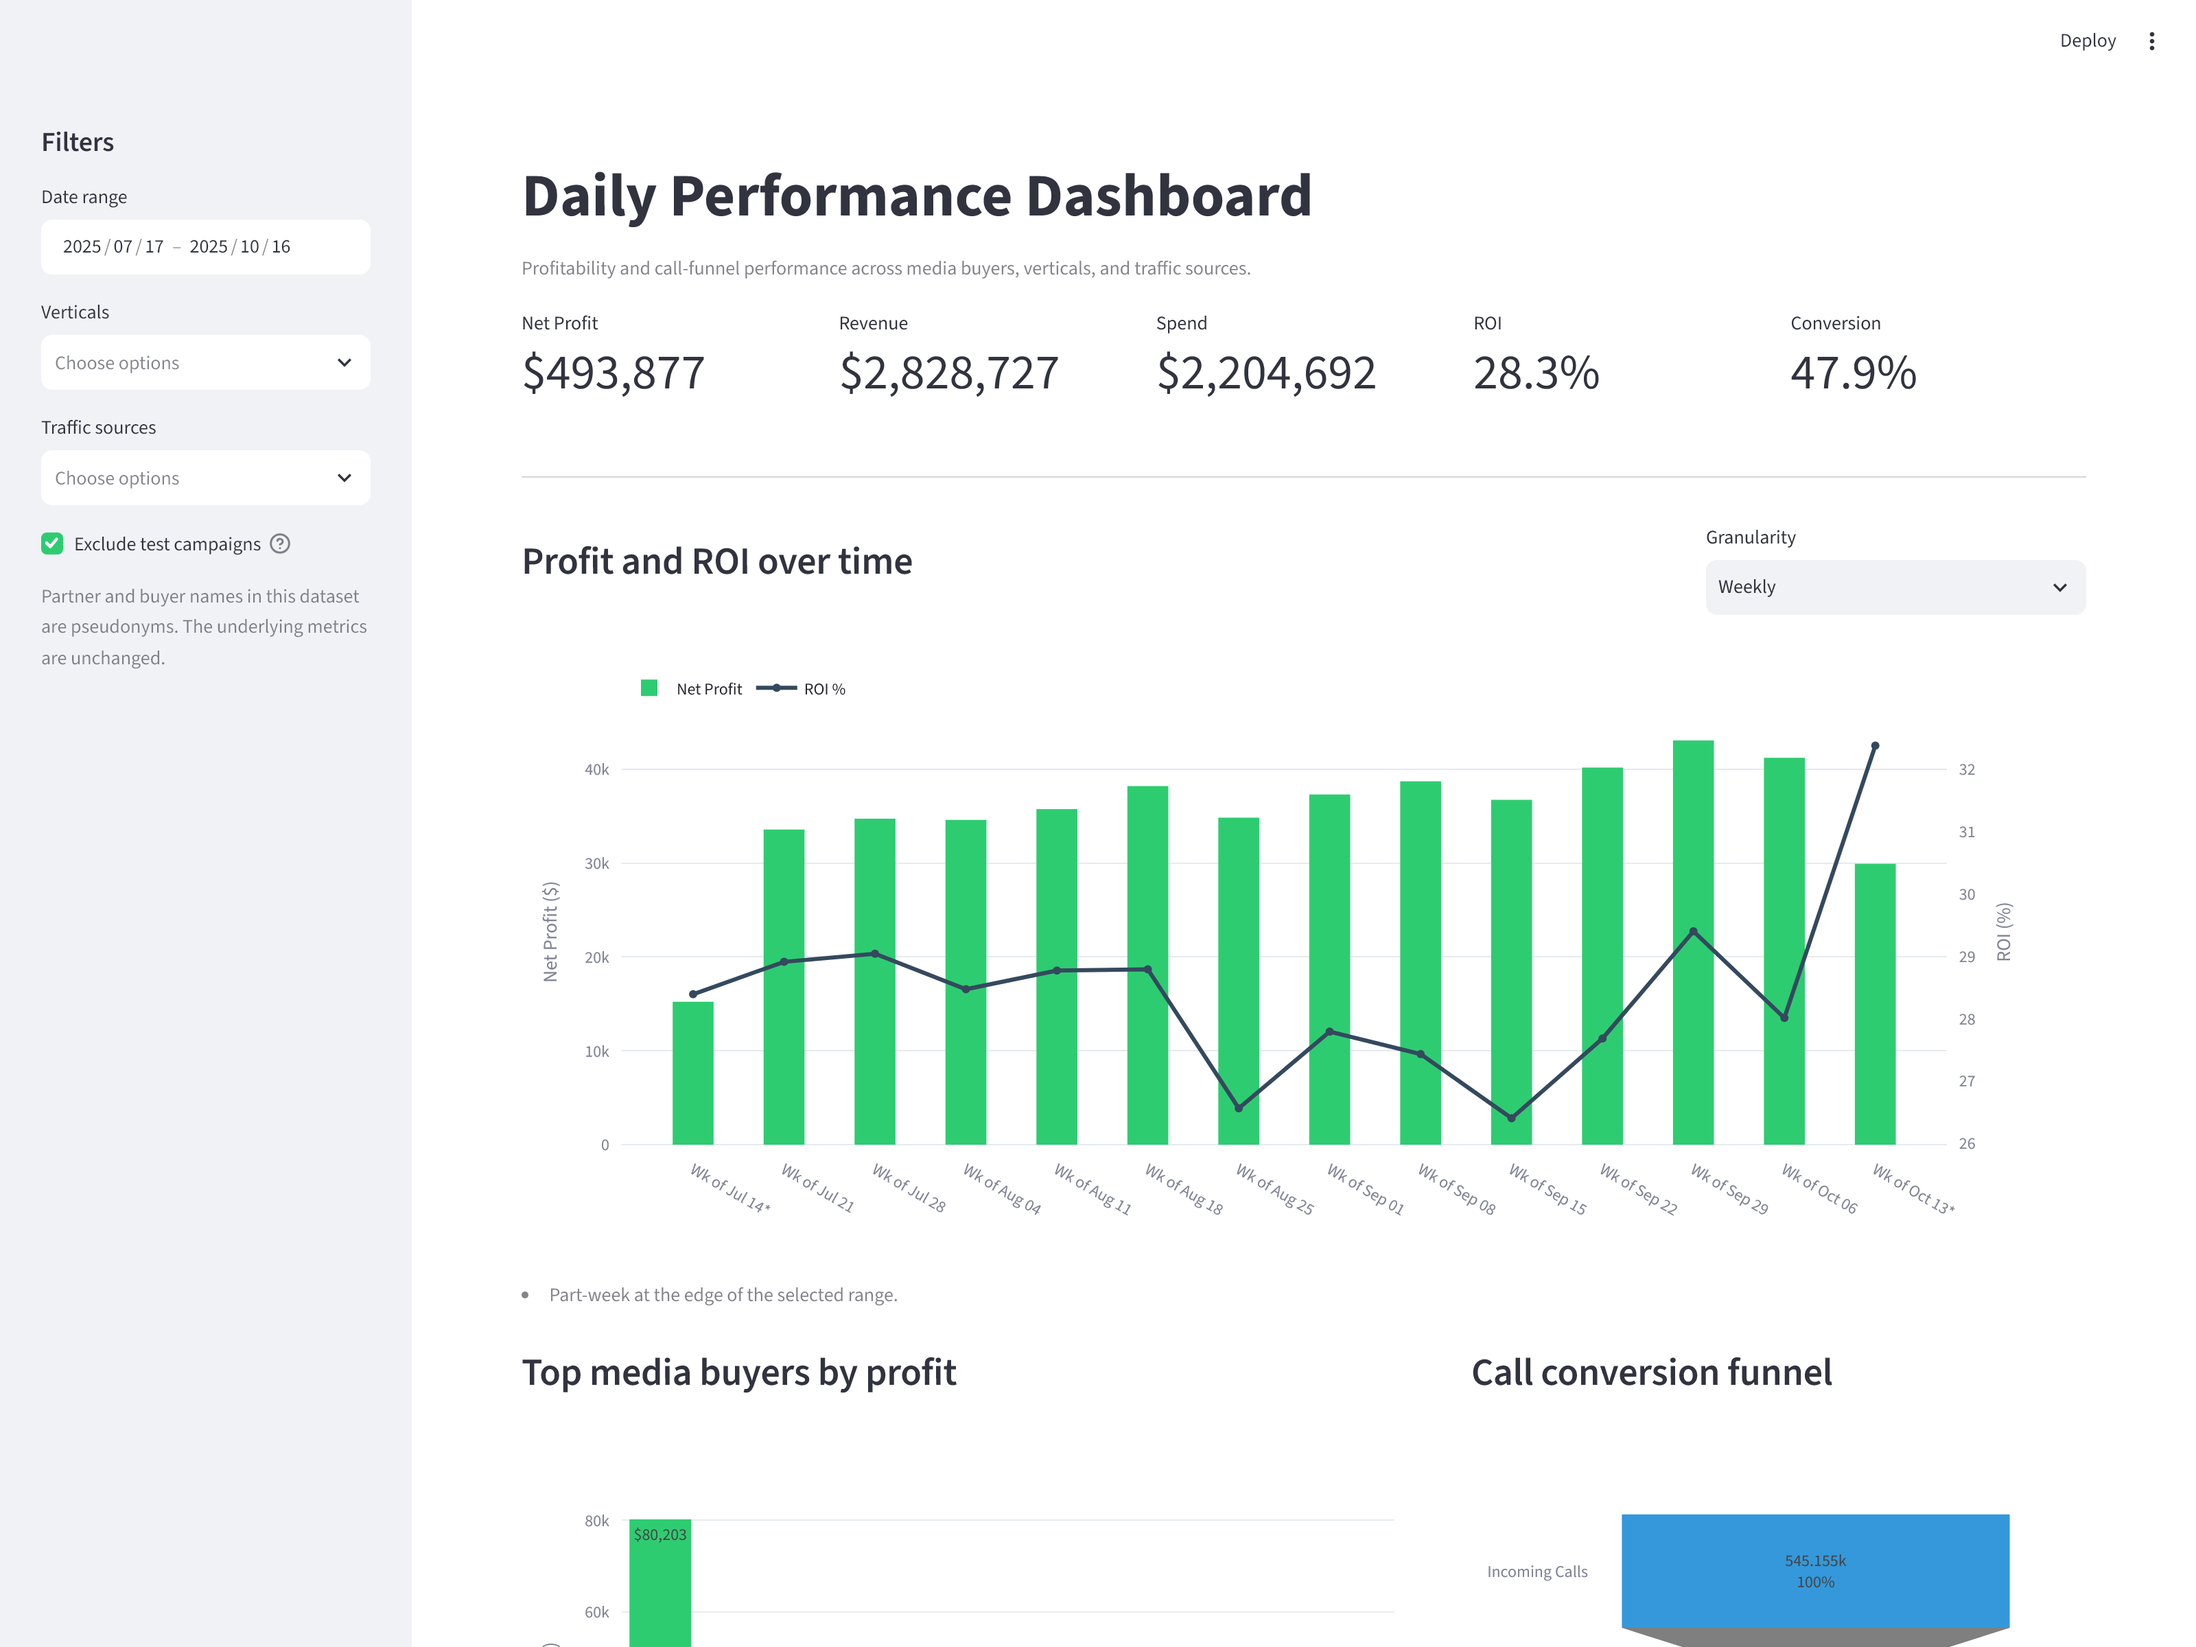
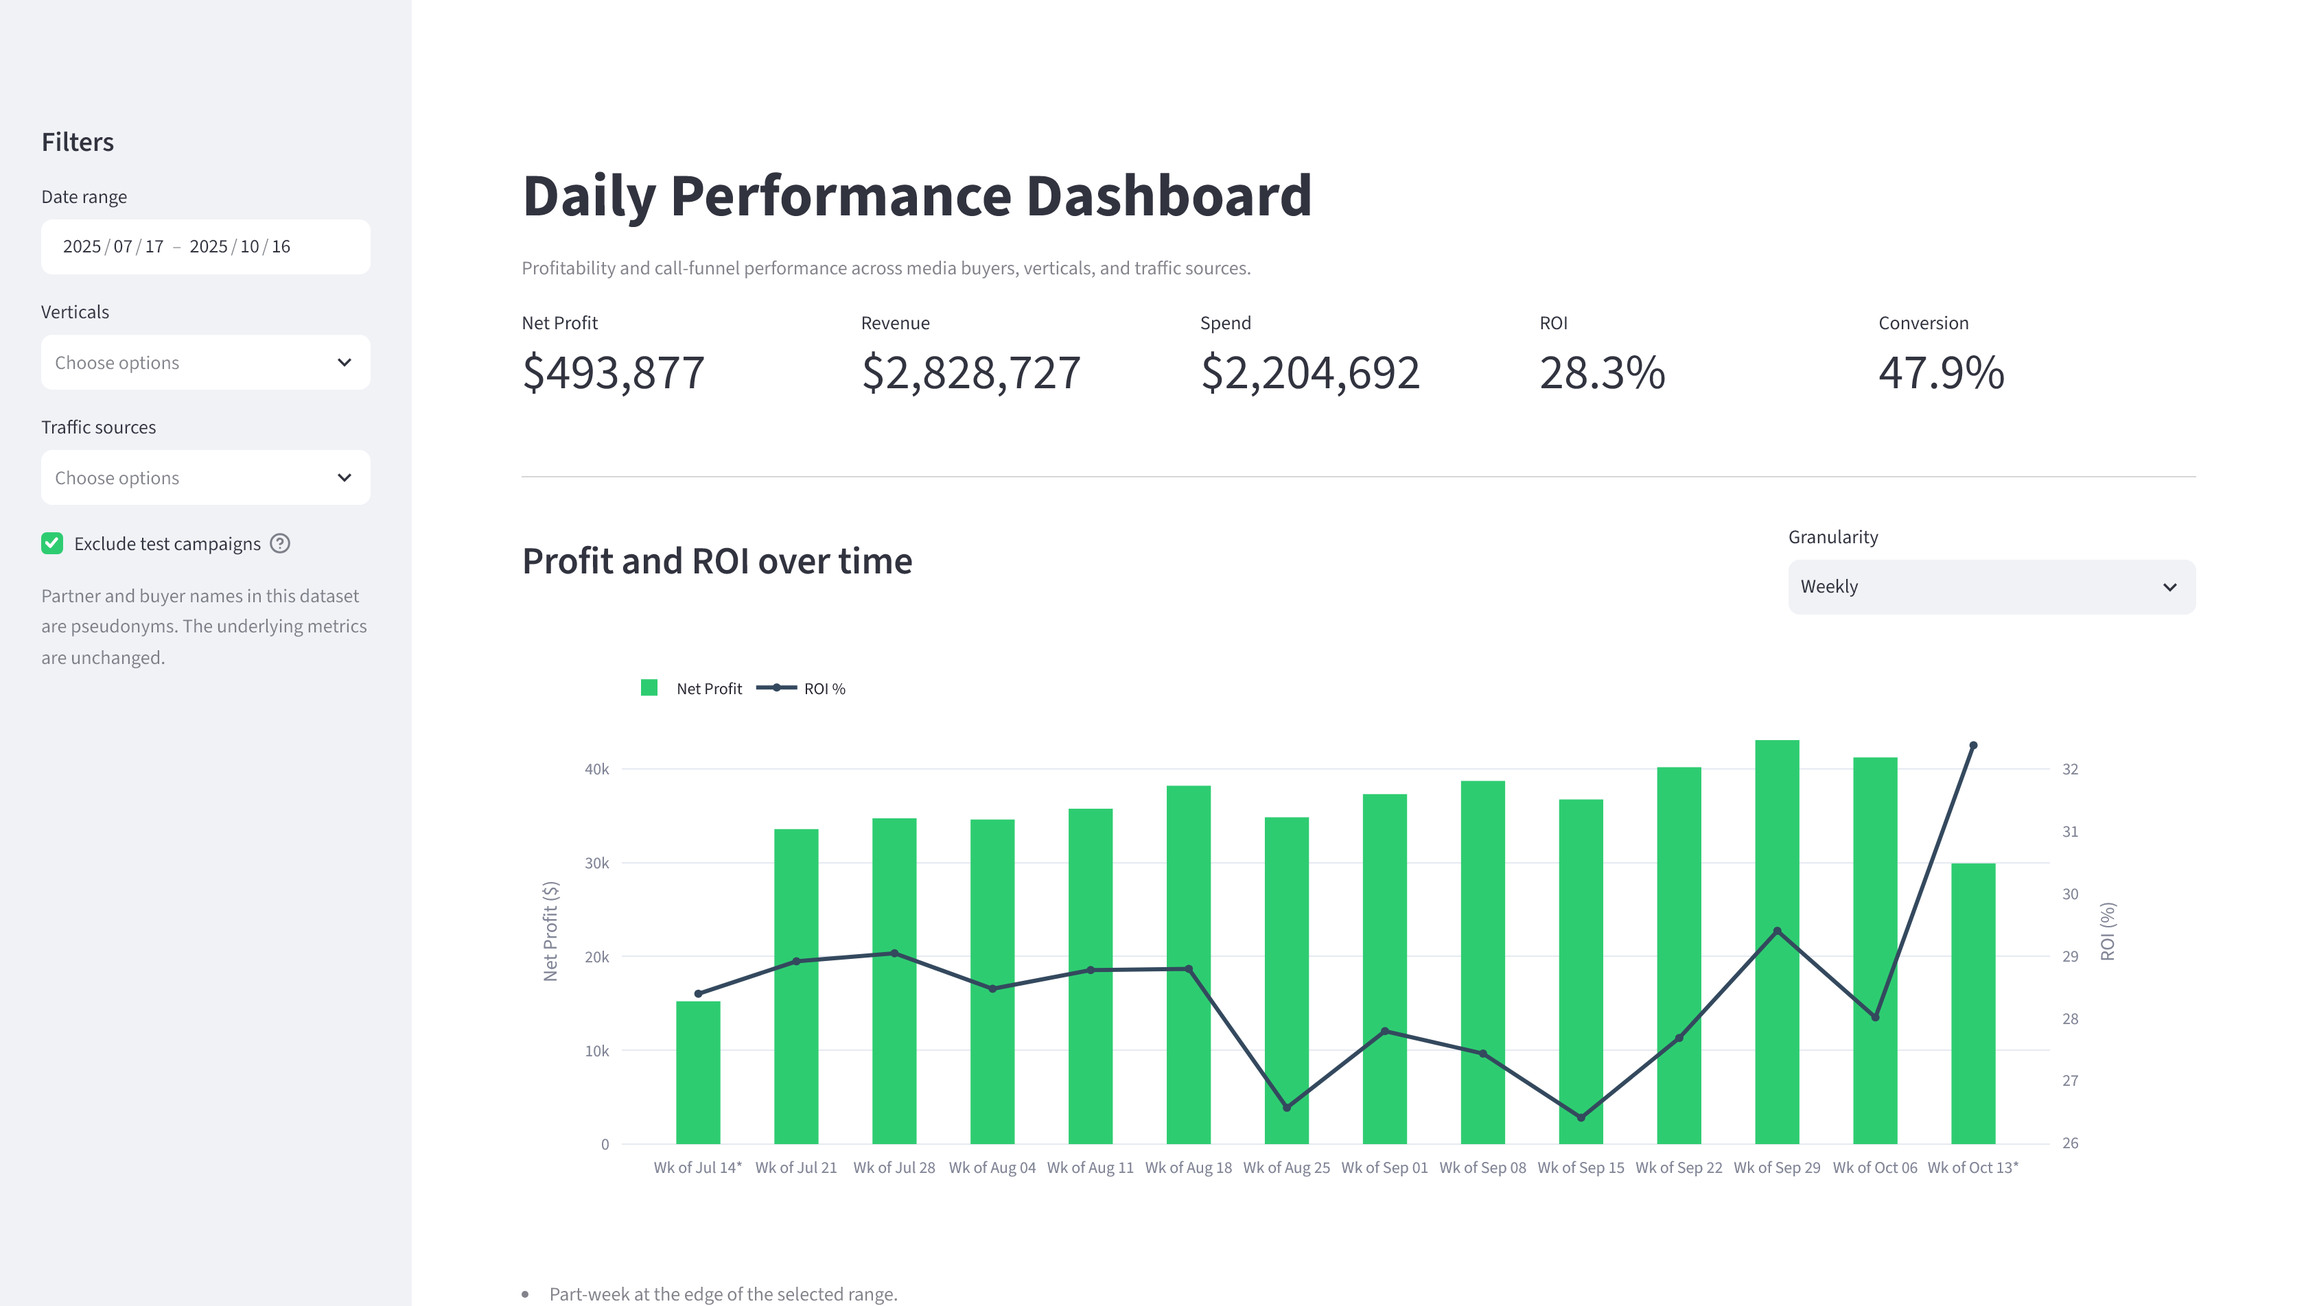
Reshoot the dashboard screenshots and add panel detail views
Capture the panels with the Streamlit toolbar hidden and each section framed
to its own content, rather than one full-page shot that cut charts mid-scroll.
Add the buyer leaderboard, funnel, and segment comparison as separate images
so the README shows what each panel answers.

diff --git a/README.md b/README.md
@@ -35,6 +35,17 @@ vertical, a traffic source, or any window inside the reporting period.
 | Call conversion funnel | How many incoming calls connected, and how many converted? |
 | Affiliate versus internal | Which sourcing model performs better on rate, not just volume? |
 
+The leaderboard ranks buyers by profit while the funnel shows where calls are lost — just
+over half of incoming calls connect, and about half of those convert.
+
+![Top media buyers and the call conversion funnel](docs/buyers-and-funnel.png)
+
+Affiliate traffic contributes roughly ten times the profit of internal buying here, but the
+rate comparison is what informs a budget decision: affiliate leads on ROI, margin, and
+conversion alike.
+
+![Affiliate versus internal traffic](docs/segments.png)
+
 Every panel responds to the sidebar filters, so the same layout works for a single vertical
 or the whole book of business. The dataset spans a quarter — 92 days and roughly 3,600
 campaign rows — and the trend panel rolls up to weekly automatically once the selected range
@@ -63,8 +74,8 @@ the edge of a range are marked, so a short bar is not misread as a downturn.
 
 ## Data and privacy
 
-Names and identities in this dataset are masked to protect the original company's data;
-the workbook combines two observed days with 90 days of synthetic history generated by
+Names and identities in this dataset are masked to protect the original company's data,
+with 90 days of synthetic history generated by
 [`scripts/generate_history.py`](scripts/generate_history.py).
 
 ## Running it locally
